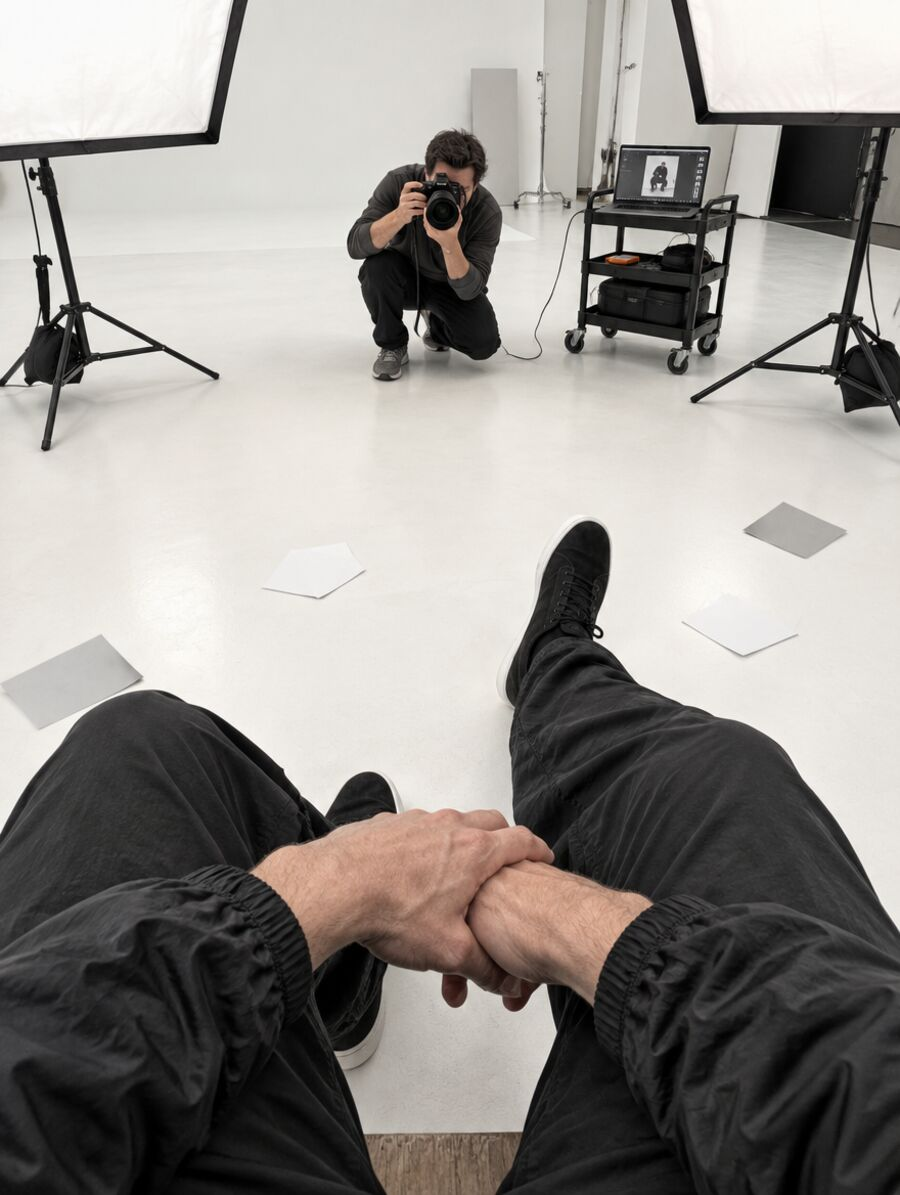
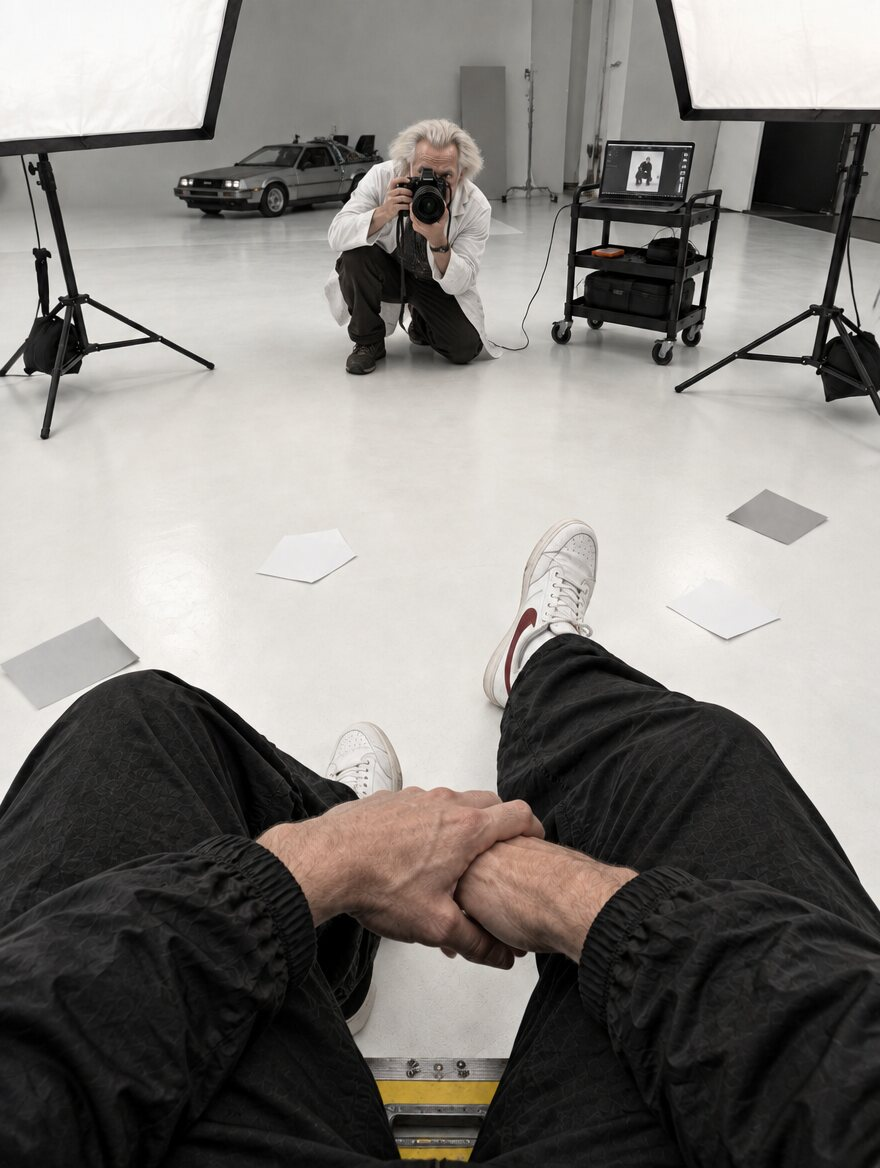
Meta POV: back to the still, now in the hero wardrobe with Doc Brown and a DeLorean
Reverts the live-camera effect. The POV photo now matches the hero
outfit (black jacket and wide trousers, white Bruins, plutonium case
underfoot); the photographer is a Doc Brown type and a DeLorean sits at
the back of the studio.

Claude-Session: https://claude.ai/code/session_01W5NmLrmCfpinZRZs12n3aL

diff --git a/index.html b/index.html
@@ -487,7 +487,7 @@
 
 <dialog class="pov" id="pov" aria-label="Point of view from Charlie's Ray-Ban Meta glasses">
   <div class="pov-frame">
-    <img src="assets/pov-meta.jpg" alt="First-person view from Charlie's glasses: his hands clasped over his knees and black sneakers, a photographer crouched ahead shooting him, softboxes and a tether laptop showing the shot.">
+    <img src="assets/pov-meta.jpg" alt="First-person view from Charlie\'s glasses: his hands clasped over his knees in black trousers and white Nikes with red swooshes, the plutonium case under him, and a wild-haired photographer in a white lab coat crouched ahead shooting him, with a DeLorean parked at the back of the studio.">
     <div class="hud">
       <div class="hud-top">
         <span class="rec"><i></i><span id="rec-time">00:00</span></span>

diff --git a/tastemaster.html b/tastemaster.html
@@ -522,7 +522,7 @@
 
 <dialog class="pov" id="pov" aria-label="Point of view from Charlie's Ray-Ban Meta glasses">
   <div class="pov-frame">
-    <img src="assets/pov-meta.jpg" alt="First-person view from Charlie's glasses: his hands clasped over his knees and black sneakers, a photographer crouched ahead shooting him, softboxes and a tether laptop showing the shot.">
+    <img src="assets/pov-meta.jpg" alt="First-person view from Charlie\'s glasses: his hands clasped over his knees in black trousers and white Nikes with red swooshes, the plutonium case under him, and a wild-haired photographer in a white lab coat crouched ahead shooting him, with a DeLorean parked at the back of the studio.">
     <div class="hud">
       <div class="hud-top">
         <span class="rec"><i></i><span id="rec-time">00:00</span></span>
